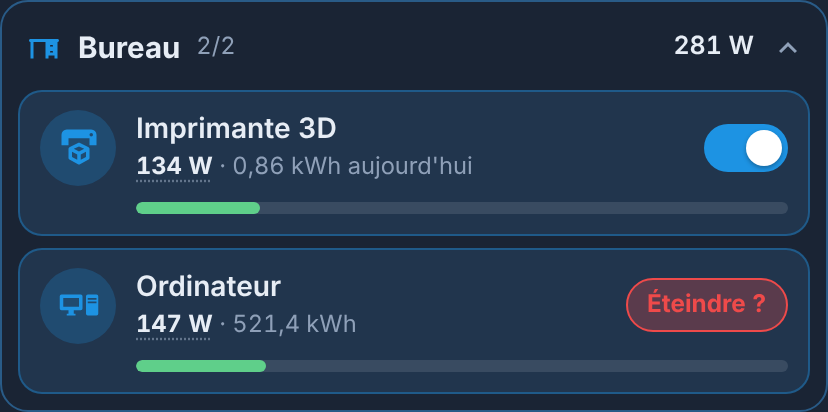
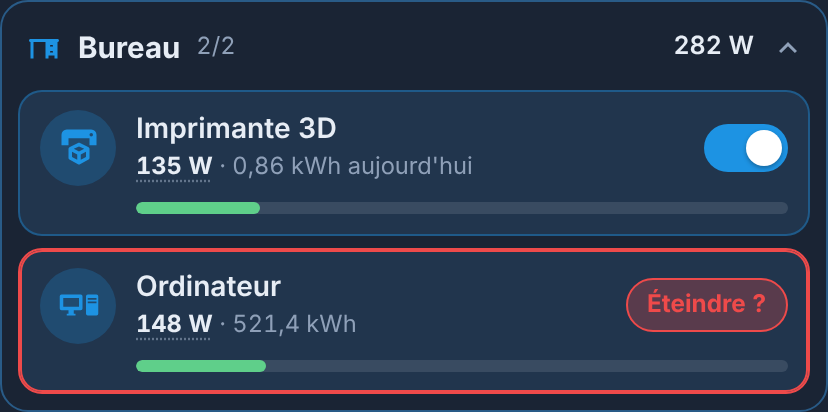
feat: appui sur la prise puis second appui pour valider, prise verrouillée intouchable (0.1.0-beta.2)
Un appui sur la prise affiche « Allumer ? » ou « Éteindre ? », le second appui
valide (option confirm, qui remplace confirm_off, encore lue). Appui long : fiche
de Home Assistant. Une prise verrouillée n'ouvre plus la fiche de l'interrupteur :
on ne peut plus l'allumer ni l'éteindre depuis la carte.

Claude-Session: https://claude.ai/code/session_01CSixJnFf4qBMac7uTfNvnW

diff --git a/prises-card.js b/prises-card.js
@@ -2,11 +2,11 @@
  * Carte Prises — custom:prises-card
  *
  * Prises connectées de Home Assistant rangées par pièce, dans le style des cartes MyElectricalData :
- * marche / arrêt (arrêt confirmé), puissance instantanée, énergie consommée, tension et courant
+ * marche / arrêt d'un appui sur la prise, validé par un second appui, puissance instantanée, énergie consommée, tension et courant
  * pour les prises qui les mesurent. Sans configuration, la carte trouve seule les prises et leurs capteurs.
  */
 (() => {
-const CARD_VERSION = "0.1.0-beta.1";
+const CARD_VERSION = "0.1.0-beta.2";
 
 const DEFAULTS = {
   title: "",
@@ -17,7 +17,7 @@ const DEFAULTS = {
   locked: [],
   show_off: true,
   show_details: true,
-  confirm_off: true,
+  confirm: true,
   sort: "name",
   max_power: 3680,
   theme: "v2",
@@ -30,22 +30,22 @@ const I18N = {
   fr: {
     title: "Prises", off: "Éteinte", on: "Allumée", unavailable: "Indisponible",
     n_on: { one: "{n} prise allumée", other: "{n} prises allumées" }, none_on: "Toutes les prises sont éteintes",
-    other_room: "Autres prises", confirm: "Éteindre ?", locked: "Prise verrouillée", toggle: "Allumer ou éteindre",
+    other_room: "Autres prises", confirm_off: "Éteindre ?", confirm_on: "Allumer ?", locked: "Prise verrouillée", toggle: "Appuyer pour allumer ou éteindre, appui long pour la fiche",
     total: "Puissance totale", today: "aujourd'hui", collapse: "Replier ou déplier la pièce", history: "Historique",
     none: "Aucune prise trouvée", none_hint: "La carte cherche les interrupteurs de type prise ou qui mesurent une puissance. Vous pouvez aussi les lister avec l'option entities.",
   },
   en: {
     title: "Plugs", off: "Off", on: "On", unavailable: "Unavailable",
     n_on: { one: "{n} plug on", other: "{n} plugs on" }, none_on: "All plugs are off",
-    other_room: "Other plugs", confirm: "Turn off?", locked: "Locked plug", toggle: "Turn on or off",
+    other_room: "Other plugs", confirm_off: "Turn off?", confirm_on: "Turn on?", locked: "Locked plug", toggle: "Tap to turn on or off, long press for details",
     total: "Total power", today: "today", collapse: "Collapse or expand the room", history: "History",
     none: "No plugs found", none_hint: "The card looks for outlet switches or switches that measure power. You can also list them with the entities option.",
   },
   pl: {
     title: "Gniazdka", off: "Wyłączone", on: "Włączone", unavailable: "Niedostępne",
     n_on: { one: "{n} gniazdko włączone", few: "{n} gniazdka włączone", many: "{n} gniazdek włączonych", other: "{n} gniazdek włączonych" },
-    none_on: "Wszystkie gniazdka wyłączone", other_room: "Inne gniazdka", confirm: "Wyłączyć?", locked: "Gniazdko zablokowane",
-    toggle: "Włącz lub wyłącz", total: "Moc łączna", today: "dziś", collapse: "Zwiń lub rozwiń pomieszczenie", history: "Historia",
+    none_on: "Wszystkie gniazdka wyłączone", other_room: "Inne gniazdka", confirm_off: "Wyłączyć?", confirm_on: "Włączyć?", locked: "Gniazdko zablokowane",
+    toggle: "Dotknij, aby włączyć lub wyłączyć; przytrzymaj, aby zobaczyć szczegóły", total: "Moc łączna", today: "dziś", collapse: "Zwiń lub rozwiń pomieszczenie", history: "Historia",
     none: "Nie znaleziono gniazdek", none_hint: "Karta szuka przełączników typu gniazdko lub mierzących moc. Możesz też podać je w opcji entities.",
   },
 };
@@ -53,15 +53,15 @@ const I18N = {
 const EDITOR_LABELS = {
   fr: { title: "Titre (Prises par défaut)", icon: "Icône", entities: "Prises (trouvées seules si vide)", areas: "Pièces affichées (toutes si vide)",
     exclude: "Prises à masquer", locked: "Prises verrouillées (pas de bouton)", show_off: "Afficher les prises éteintes",
-    show_details: "Afficher tension et courant", confirm_off: "Confirmer avant d'éteindre", sort: "Ordre dans chaque pièce",
+    show_details: "Afficher tension et courant", confirm: "Valider d'un second appui", sort: "Ordre dans chaque pièce",
     max_power: "Puissance de la barre pleine (W)", theme: "Couleurs de la carte", language: "Langue" },
   en: { title: "Title (Plugs by default)", icon: "Icon", entities: "Plugs (found automatically if empty)", areas: "Rooms shown (all if empty)",
     exclude: "Plugs to hide", locked: "Locked plugs (no button)", show_off: "Show plugs that are off",
-    show_details: "Show voltage and current", confirm_off: "Confirm before turning off", sort: "Order in each room",
+    show_details: "Show voltage and current", confirm: "Confirm with a second tap", sort: "Order in each room",
     max_power: "Power of a full bar (W)", theme: "Card colours", language: "Language" },
   pl: { title: "Tytuł (domyślnie Gniazdka)", icon: "Ikona", entities: "Gniazdka (wykrywane, jeśli puste)", areas: "Pokazane pomieszczenia (wszystkie, jeśli puste)",
     exclude: "Ukryte gniazdka", locked: "Zablokowane gniazdka (bez przycisku)", show_off: "Pokaż wyłączone gniazdka",
-    show_details: "Pokaż napięcie i prąd", confirm_off: "Potwierdź przed wyłączeniem", sort: "Kolejność w pomieszczeniu",
+    show_details: "Pokaż napięcie i prąd", confirm: "Potwierdź drugim dotknięciem", sort: "Kolejność w pomieszczeniu",
     max_power: "Moc pełnego paska (W)", theme: "Kolory karty", language: "Język" },
 };
 
@@ -100,7 +100,7 @@ class PrisesCard extends HTMLElement {
         { type: "grid", name: "", schema: [
           { name: "show_off", selector: { boolean: {} } },
           { name: "show_details", selector: { boolean: {} } },
-          { name: "confirm_off", selector: { boolean: {} } },
+          { name: "confirm", selector: { boolean: {} } },
         ] },
         { type: "grid", name: "", schema: [
           { name: "sort", selector: { select: { mode: "dropdown", options: [
@@ -124,6 +124,8 @@ class PrisesCard extends HTMLElement {
 
   setConfig(config) {
     this._config = { ...DEFAULTS, ...(config || {}) };
+    // ancienne option de la 0.1.0-beta.1
+    if (config?.confirm === undefined && config?.confirm_off !== undefined) this._config.confirm = !!config.confirm_off;
     for (const k of ["entities", "areas", "exclude", "locked"]) {
       const v = this._config[k];
       this._config[k] = Array.isArray(v) ? v : v ? [v] : [];
@@ -158,6 +160,7 @@ class PrisesCard extends HTMLElement {
     this.shadowRoot.addEventListener("click", (ev) => {
       const el = ev.target.closest?.("[data-act]");
       if (!el) return;
+      if (this._held) { this._held = false; return; } // appui long : la fiche est déjà ouverte
       const { act, id } = el.dataset;
       if (act === "toggle") this._toggle(id);
       else if (act === "info") this._moreInfo(id);
@@ -167,16 +170,27 @@ class PrisesCard extends HTMLElement {
         this._sig = null; this._render();
       }
     });
+    // appui long sur une prise (non verrouillée) : fiche de Home Assistant
+    this.shadowRoot.addEventListener("pointerdown", (ev) => {
+      const el = ev.target.closest?.('[data-act="toggle"]');
+      clearTimeout(this._holdTimer);
+      this._held = false;
+      if (!el || ev.target.closest(".pc-w")) return;
+      this._holdTimer = setTimeout(() => { this._held = true; this._disarm(); this._moreInfo(el.dataset.id); }, 550);
+    });
+    for (const t of ["pointerup", "pointercancel", "pointerleave"]) this.shadowRoot.addEventListener(t, () => clearTimeout(this._holdTimer), true);
+    this.shadowRoot.addEventListener("contextmenu", (ev) => { if (ev.target.closest?.('[data-act="toggle"]')) ev.preventDefault(); });
     this.shadowRoot.addEventListener("keydown", (ev) => {
       if ((ev.key === "Enter" || ev.key === " ") && ev.target.matches?.("[data-act]:not(button)")) { ev.preventDefault(); ev.target.click(); }
     });
   }
 
-  /** Allumer d'un clic ; éteindre en deux clics (confirm_off), pour ne pas couper un congélateur par erreur. */
+  /** Un appui sur la prise demande « Allumer ? » ou « Éteindre ? », le second appui valide (option confirm). */
   _toggle(id) {
-    const on = this._hass.states[id]?.state === "on";
-    if (!on) { this._disarm(); this._call("switch", "turn_on", { entity_id: id }); return; }
-    if (this._config.confirm_off && this._armed !== id) {
+    const st = this._hass.states[id]?.state;
+    if (st !== "on" && st !== "off") return;
+    const on = st === "on";
+    if (this._config.confirm && this._armed !== id) {
       this._armed = id;
       clearTimeout(this._armTimer);
       this._armTimer = setTimeout(() => this._disarm(), 4000);
@@ -184,7 +198,7 @@ class PrisesCard extends HTMLElement {
       return;
     }
     this._disarm();
-    this._call("switch", "turn_off", { entity_id: id });
+    this._call("switch", on ? "turn_off" : "turn_on", { entity_id: id });
   }
 
   _disarm() {
@@ -416,16 +430,19 @@ class PrisesCard extends HTMLElement {
     if (c.show_details && on && amp !== null) parts.push(`${this._n(amp, 2)} A`);
     const icon = p.icon || s.attributes?.icon || (on ? "mdi:power-socket-fr" : "mdi:power-socket-fr");
 
+    // verrouillée : rien ne permet de l'allumer ou de l'éteindre depuis la carte (pas de fiche de l'interrupteur)
+    const usable = !p.locked && (on || off);
     const ctrl = p.locked
       ? `<span class="pc-lock" title="${esc(T.locked)}"><ha-icon icon="mdi:lock"></ha-icon></span>`
       : armed
-        ? `<button class="pc-confirm" data-act="toggle" data-id="${esc(p.id)}">${esc(T.confirm)}</button>`
-        : `<button class="pc-sw${on ? " on" : ""}" data-act="toggle" data-id="${esc(p.id)}" role="switch" aria-checked="${on}" aria-label="${esc(T.toggle)}" ${on || off ? "" : "disabled"}><i></i></button>`;
+        ? `<span class="pc-confirm${on ? " off" : " on"}">${esc(on ? T.confirm_off : T.confirm_on)}</span>`
+        : `<span class="pc-sw${on ? " on" : ""}" aria-hidden="true"><i></i></span>`;
+    const tile = usable ? ` data-act="toggle" data-id="${esc(p.id)}" role="switch" aria-checked="${on}" tabindex="0" title="${esc(T.toggle)}"` : "";
 
-    return `<div class="pc-plug${on ? " on" : ""}${on || off ? "" : " na"} ${level}">
+    return `<div class="pc-plug${on ? " on" : ""}${on || off ? "" : " na"}${usable ? " tap" : ""}${armed ? " armed" : ""}${p.locked ? " locked" : ""} ${level}"${tile}>
       <div class="pc-row">
         <span class="pc-ico"><ha-icon icon="${esc(icon)}"></ha-icon></span>
-        <div class="pc-name" data-act="info" data-id="${esc(p.id)}" role="button" tabindex="0">
+        <div class="pc-name">
           <b>${esc(this._name(p))}</b>
           <span>${p.power ? `<em class="pc-w" data-act="info" data-id="${esc(p.power)}" title="${esc(T.history)}">${esc(main)}</em>` : `<em>${esc(main)}</em>`}${parts.length ? ` · ${esc(parts.join(" · "))}` : ""}</span>
         </div>
@@ -485,7 +502,11 @@ button:focus-visible, [role=button]:focus-visible { outline: 2px solid var(--med
 .pc-ico ha-icon { --mdc-icon-size: 21px; color: var(--med-muted); }
 .pc-plug.on .pc-ico { background: color-mix(in srgb, var(--med-accent) 24%, transparent); }
 .pc-plug.on .pc-ico ha-icon { color: var(--med-accent); }
-.pc-name { flex: 1; min-width: 0; display: flex; flex-direction: column; cursor: pointer; border-radius: 8px; }
+.pc-plug.tap { cursor: pointer; user-select: none; -webkit-user-select: none; -webkit-touch-callout: none; transition: border-color .2s; }
+.pc-plug.tap:hover { border-color: var(--med-line); }
+.pc-plug:focus-visible { outline: 2px solid var(--med-accent); outline-offset: 2px; }
+.pc-plug.armed { border-color: var(--arm) !important; box-shadow: 0 0 0 1px var(--arm) inset; }
+.pc-name { flex: 1; min-width: 0; display: flex; flex-direction: column; }
 .pc-name b { font-size: .88rem; font-weight: 600; overflow: hidden; text-overflow: ellipsis; white-space: nowrap; }
 .pc-name span { font-size: .74rem; color: var(--med-muted); overflow: hidden; text-overflow: ellipsis; white-space: nowrap; }
 .pc-name em { font-style: normal; }
@@ -496,10 +517,11 @@ button:focus-visible, [role=button]:focus-visible { outline: 2px solid var(--med
 .pc-sw i { position: absolute; top: 3px; left: 3px; width: 18px; height: 18px; border-radius: 50%; background: #fff; transition: transform .2s; box-shadow: 0 1px 2px rgba(0,0,0,.3); }
 .pc-sw.on { background: var(--med-accent); }
 .pc-sw.on i { transform: translateX(18px); }
-.pc-sw:disabled { cursor: default; }
-.pc-confirm { border-radius: 999px; border: 1px solid var(--pc-bad); background: color-mix(in srgb, var(--pc-bad) 15%, transparent); color: var(--pc-bad);
-  padding: 3px 10px; font-size: .76rem; font-weight: 700; flex: none; animation: pc-pulse 1s ease-in-out infinite; }
-@keyframes pc-pulse { 50% { background: color-mix(in srgb, var(--pc-bad) 30%, transparent); } }
+.pc-plug { --arm: var(--pc-bad); }
+.pc-plug.armed:not(.on) { --arm: var(--pc-ok); }
+.pc-confirm { border-radius: 999px; border: 1px solid var(--arm); background: color-mix(in srgb, var(--arm) 15%, transparent); color: var(--arm);
+  padding: 3px 10px; font-size: .76rem; font-weight: 700; flex: none; white-space: nowrap; animation: pc-pulse 1s ease-in-out infinite; }
+@keyframes pc-pulse { 50% { background: color-mix(in srgb, var(--arm) 30%, transparent); } }
 .pc-lock { width: 42px; display: grid; place-items: center; flex: none; }
 .pc-lock ha-icon { --mdc-icon-size: 18px; color: var(--med-muted); }
 .pc-bar { height: 6px; border-radius: 4px; background: color-mix(in srgb, var(--med-text) 12%, transparent); overflow: hidden; margin: 8px 0 2px 48px; }

diff --git a/docs/demo.html b/docs/demo.html
@@ -92,7 +92,7 @@
         <button data-v="yes">Affichés</button><button data-v="no">Masqués</button></div></div>
       <div class="ctl"><div class="ctl-l">Ordre (<code>sort</code>)</div><div class="seg" data-key="sort">
         <button data-v="name">Nom</button><button data-v="power">Puissance</button></div></div>
-      <div class="ctl"><div class="ctl-l">Confirmer avant d'éteindre (<code>confirm_off</code>)</div><div class="seg" data-key="confirm_off">
+      <div class="ctl"><div class="ctl-l">Valider d'un second appui (<code>confirm</code>)</div><div class="seg" data-key="confirm">
         <button data-v="yes">Oui</button><button data-v="no">Non</button></div></div>
 
       <h2>Situation</h2>
@@ -102,7 +102,7 @@
 
     <main class="stage">
       <div class="frame" id="frame"></div>
-      <p class="hint">La carte réagit comme dans Home Assistant : allumez une prise d'un clic, éteignez-la en deux clics (« Éteindre ? »), cliquez sur une puissance pour son historique. Le congélateur et la box internet sont verrouillés. Rien n'est envoyé : tout se passe dans la page.</p>
+      <p class="hint">La carte réagit comme dans Home Assistant : appuyez sur une prise (« Allumer ? » ou « Éteindre ? »), puis une seconde fois pour valider ; appui long pour sa fiche ; clic sur une puissance pour son historique. Le congélateur et la box internet sont verrouillés : rien ne permet de les couper. Rien n'est envoyé : tout se passe dans la page.</p>
       <section class="panel">
         <div class="yaml-h"><h2>Configuration</h2><button class="copy" id="copy">Copier</button></div>
         <pre id="yaml"></pre>
@@ -142,7 +142,7 @@
     });
   }
 
-  const defaults = { page: "dark", theme: "v2", language: "fr", width: "mobile", show_off: "yes", show_details: "yes", sort: "name", confirm_off: "yes", scenario: "jour" };
+  const defaults = { page: "dark", theme: "v2", language: "fr", width: "mobile", show_off: "yes", show_details: "yes", sort: "name", confirm: "yes", scenario: "jour" };
   let state = { ...defaults };
   try { state = { ...defaults, ...JSON.parse(localStorage.getItem("prises-card-demo") || "{}") }; } catch (e) { /* ignoré */ }
 
@@ -207,7 +207,7 @@
     if (state.show_off === "no") c.show_off = false;
     if (state.show_details === "no") c.show_details = false;
     if (state.sort === "power") c.sort = "power";
-    if (state.confirm_off === "no") c.confirm_off = false;
+    if (state.confirm === "no") c.confirm = false;
     c.locked = LOCKED;
     return c;
   }

diff --git a/README.md b/README.md
@@ -36,8 +36,8 @@
 - **Prises classiques et prises qui mesurent** : une prise simple affiche Allumée / Éteinte ; une prise avec mesures affiche aussi sa **puissance** (W), son **énergie** consommée (kWh, celle du jour si elle existe), sa **tension** (V) et son **courant** (A).
 - **Puissance totale** en haut de la carte, et par pièce.
 - **Barre de charge** sous chaque prise allumée : verte, orange puis rouge selon la puissance.
-- **Éteindre en deux clics** : le premier affiche « Éteindre ? », le second coupe. Pas de congélateur éteint par erreur.
-- **Prises verrouillées** (box internet, congélateur…) : affichées avec leurs mesures, sans bouton.
+- **Un appui sur la prise, un second pour valider** : le premier affiche « Allumer ? » ou « Éteindre ? », le second exécute, comme les boutons du NAS des [Cartes Serveur HA](https://github.com/Marlboro62/serveur-ha-card). Pas de congélateur coupé par erreur.
+- **Prises verrouillées** (box internet, congélateur…) : affichées avec leurs mesures, sans aucun moyen de les allumer ou de les éteindre depuis la carte.
 - **Historique** : un clic sur la puissance ouvre la fiche du capteur, avec son graphique.
 - **Aucune dépendance** : pas de button-card ni de card-mod. Éditeur visuel compris.
 - **Français, anglais et polonais** (langue de Home Assistant, ou au choix).
@@ -46,13 +46,13 @@
 | --- | --- | --- |
 | <img src="https://raw.githubusercontent.com/Marlboro62/prises-card/main/images/journee.png" alt="Journée" width="300"> | <img src="https://raw.githubusercontent.com/Marlboro62/prises-card/main/images/forte-conso.png" alt="Forte consommation" width="300"> | <img src="https://raw.githubusercontent.com/Marlboro62/prises-card/main/images/clair.png" alt="Clair" width="300"> |
 
-| Éteindre en deux clics | Sur tablette ou PC |
+| Second appui pour valider | Sur tablette ou PC |
 | --- | --- |
 | <img src="https://raw.githubusercontent.com/Marlboro62/prises-card/main/images/confirmation.png" alt="Confirmation avant d'éteindre" width="300"> | <img src="https://raw.githubusercontent.com/Marlboro62/prises-card/main/images/tablette.png" alt="Deux colonnes sur tablette ou PC" width="460"> |
 
 *Aperçus réalisés avec la démo : pièces, prises et mesures fictives.*
 
-**[▶ Essayer la démo en ligne](https://marlboro62.github.io/prises-card/docs/demo.html)** : allumez, éteignez en deux clics, triez par puissance, en sombre ou clair, sur téléphone ou PC.
+**[▶ Essayer la démo en ligne](https://marlboro62.github.io/prises-card/docs/demo.html)** : allumez et éteignez (appui puis validation), triez par puissance, en sombre ou clair, sur téléphone ou PC.
 
 ## Installation
 
@@ -73,6 +73,16 @@ type: custom:prises-card
 ```
 
 C'est tout : la carte trouve vos prises, leurs pièces et leurs capteurs. Elle est aussi dans la liste des cartes (**Prises**), avec un éditeur visuel.
+
+| Geste | Effet |
+| --- | --- |
+| Appui sur la prise | « Allumer ? » ou « Éteindre ? » (4 secondes pour valider) |
+| Second appui | Allume ou éteint |
+| Appui long sur la prise | Fiche de Home Assistant |
+| Clic sur la puissance | Fiche du capteur, avec son historique |
+| Clic sur le nom d'une pièce | Replier ou déplier la pièce |
+
+Une prise **verrouillée** ne réagit pas à l'appui ni à l'appui long : seule sa puissance reste cliquable, pour l'historique.
 
 ### Comment la carte trouve les prises
 
@@ -95,7 +105,7 @@ Si un interrupteur est pris pour une prise à tort, masquez-le avec `exclude`. S
 | `locked` | Prises sans bouton marche / arrêt | aucune |
 | `show_off` | Afficher les prises éteintes | `true` |
 | `show_details` | Afficher tension et courant | `true` |
-| `confirm_off` | Demander un second clic avant d'éteindre | `true` |
+| `confirm` | Valider d'un second appui (allumer et éteindre) ; `false` : un seul appui | `true` |
 | `sort` | Ordre dans chaque pièce : `name` (nom) ou `power` (la plus forte en premier) | `name` |
 | `max_power` | Puissance d'une barre pleine, en W (la barre devient orange vers 15 %, rouge vers 55 %) | `3680` |
 | `theme` | `v2` (bleu nuit), `auto` (clair si Home Assistant est en mode clair) ou `ha` (thème de Home Assistant) | `v2` |
@@ -131,7 +141,7 @@ Clés d'une prise : `entity`, `name`, `icon`, `power`, `energy`, `voltage`, `cur
 
 ### 0.1.0
 
-- ✨ Première version : prises par pièce, puissance, énergie, tension et courant, puissance totale, barre de charge, arrêt en deux clics, prises verrouillées, tri par puissance, thèmes bleu nuit, clair et Home Assistant, français, anglais et polonais.
+- ✨ Première version : prises par pièce, puissance, énergie, tension et courant, puissance totale, barre de charge, appui sur la prise validé par un second appui, prises verrouillées, tri par puissance, thèmes bleu nuit, clair et Home Assistant, français, anglais et polonais.
 
 Détail de chaque version : [releases](https://github.com/Marlboro62/prises-card/releases).
 
